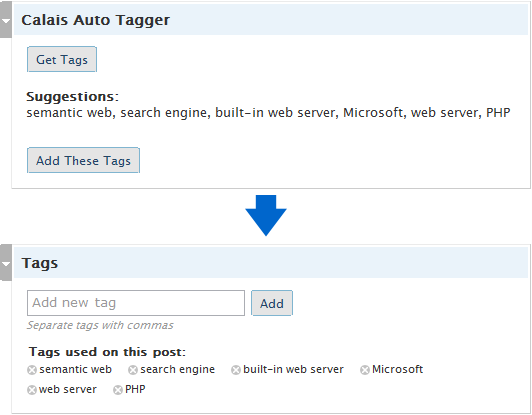
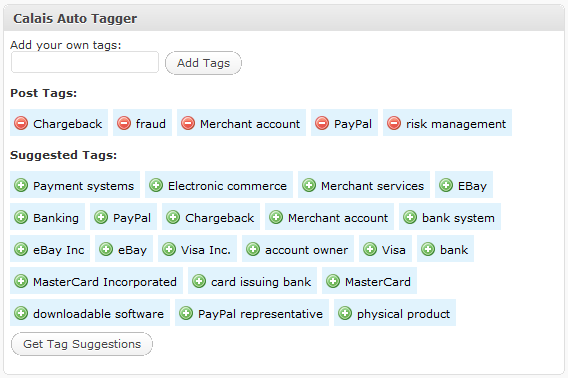
git-svn-id: https://plugins.svn.wordpress.org/calais-auto-tagger/trunk@167975 b8457f37-d9ea-0310-8a92-e5e31aec5664

diff --git a/calais_auto_tagger.php b/calais_auto_tagger.php
@@ -1,10 +1,10 @@
 <?php
 /***************************************************************************
 
-Plugin Name: WP Calais Auto Tagger
+Plugin Name: Calais Auto Tagger
 Plugin URI: http://www.dangrossman.info/wp-calais-auto-tagger
 Description: Suggests tags for your posts based on semantic analysis of your post content with the Open Calais API.
-Version: 1.2
+Version: 1.3
 Author: Dan Grossman
 Author URI: http://www.dangrossman.info
 
@@ -17,76 +17,71 @@ require('opencalais.php');
 //Initialization to add the box to the post page
 add_action('admin_menu', 'calais_init');
 function calais_init() {
-	if (function_exists('add_meta_box')) {
-		add_meta_box('calais', 'Calais Auto Tagger', 'calais_box', 'post', 'advanced');
-	} else {
-		add_action('dbx_post_sidebar', 'calais_box', 1);
-	}
-	add_submenu_page('plugins.php', 'Calais Configuration', 'Calais Configuration', 'manage_options', 'calais-key-config', 'calais_conf');
+	add_meta_box('calais', 'Calais Auto Tagger', 'calais_box', 'post', 'normal', 'high');
+	add_submenu_page('options-general.php', 'Calais API Key', 'Calais API Key', 10, __FILE__, 'calais_conf');
 }
 
 function calais_box() {
 	?>
-	<script type="text/javascript">
-	//<![CDATA[
-
-	function calais_gettags() {
-		jQuery.post('<?php bloginfo( 'wpurl' ); ?>/wp-admin/admin-ajax.php', {text: calais_getcontent(), action: 'calais_gettags', cookie: document.cookie}, calais_showtags);
-			
-	}
-	
-	function calais_getcontent() {
-		if (typeof tinyMCE != 'undefined' && !tinyMCE.selectedInstance.spellcheckerOn) {
-			if (typeof tinyMCE.triggerSave == 'function') {
-				tinyMCE.triggerSave();
-			} else {
-				tinyMCE.wpTriggerSave();
-			}	
+	<style type="text/css">
+		.calais_tag {
+			float: left;
+			padding: 3px 6px 7px 3px;
+			background: #e1f3fd;
+			font-size: 8pt;
+			color: #000;
+			margin: 0 5px 5px 0;
 		}
-		return document.getElementById('content').value;
-	}
+		.calais_tag img {
+			position: relative;
+			top: 3px;
+		}
+	</style>
 	
-	function calais_showtags(tags) {
-		document.getElementById('calais_suggestions').innerHTML = tags;
-		document.getElementById('calais_suggestions_label').style.display = 'inline';
-		document.getElementById('calais_suggestions_add').style.display = 'inline';
+	<?php require('js.inc'); ?>
+
+	<?php
+	//Existing post tags
+	global $post;
+	$existing_tags = wp_get_post_tags($post->ID);
+	
+	$tags = array();
+	
+	if (count($existing_tags) > 0) {
+	    foreach ($existing_tags as $tag) {
+	        if ($tag->taxonomy == 'post_tag')
+	            $tags[] = $tag->name;
+	    }
 	}
 
-	function calais_savetags() {
-		var newtags = jQuery('#calais_suggestions').html();
-		newtags = newtags.replace( /\s+,+\s*/g, ',' ).replace( /,+/g, ',' ).replace( /,+\s+,+/g, ',' ).replace( /,+\s*$/g, '' ).replace( /^\s*,+/g, '' );
-		jQuery('#post_tag').find(".the-tags").val( newtags );
+	?>
+	<input type="hidden" name="calais_taglist" id="calais_taglist" value="<?php echo implode(', ', $tags); ?>" />
 		
-		tag_update_quickclicks('#post_tag');
-		
-		jQuery('#newtag').val('');
-		jQuery('#newtag').focus();
-	}
-	
-	//]]>
-	</script>
+	<label for="calais_manual">Add your own tags:</label>
+	<br />
+	<input type="text" name="calais_manual" id="calais_manual" value="" /> <input type="button" class="button" onclick="calais_add_manual()" value="Add Tags" />
+	<br /><br />
 
-	<?php if (!function_exists('add_meta_box')): ?>
-	<fieldset id="calais_dbx" class="dbx-box">
-	<h3 class="dbx-handle">Calais Auto Tagger</h3>
-	<div class="dbx-content">
-	<?php endif; ?>
-	
-	<input type="button" class="button" onclick="calais_gettags()" value="Get Tags" /><br /><br />
+	<b>Post Tags:</b>
+	<br /><br />
+	<div id="calais_tag_box" style="min-height: 40px">
+	</div>
 
-	<span style='font-size: 10pt; font-weight: bold; display: none' id="calais_suggestions_label">Suggestions:</span>
+	<div style="clear: left"></div>
 	
-	<div id="calais_suggestions" style='font-size: 10pt; margin-bottom: 10px'>
+	<b>Suggested Tags:</b>
+	<br /><br />
+	<div id="calais_suggestions" style="min-height: 40px">
 
 	</div>
 
-	<input type="button" class="button" id="calais_suggestions_add" onclick="calais_savetags()" value="Add These Tags" style="display: none" />
+	<div style="clear: left"></div>
+	
+	<input type="button" class="button" onclick="calais_gettags()" value="Get Tag Suggestions" /><br /><br />
 
-        <?php if (!function_exists('add_meta_box')): ?>
-	</div>
-	</fieldset>
-        <?php 
-	endif;	
+	<script type="text/javascript"> calais_redisplay_tags(); </script>
+
+<?php	
 }
 
 function calais_conf() {
@@ -120,6 +115,24 @@ function calais_conf() {
 	<?php	
 }
 
+add_action('save_post', 'calais_savetags', 10, 2);
+
+function calais_savetags($post_id, $post) {
+
+	if ($post->post_type == 'revision')
+		return;
+
+	$taglist = $_POST['calais_taglist'];
+	$tags = split(', ', $taglist);
+	if (strlen(trim($taglist)) > 0 && count($tags) > 0) {
+		wp_set_post_tags($post_id, $tags);
+	} else {
+		wp_set_post_tags($post_id, array());
+	}
+	
+}
+
+
 //Register an AJAX hook for the function to get the tags
 add_action('wp_ajax_calais_gettags', 'calais_gettags');
 
@@ -144,3 +157,4 @@ function calais_gettags() {
 	die(implode($entities, ', '));
 	
 }
+
